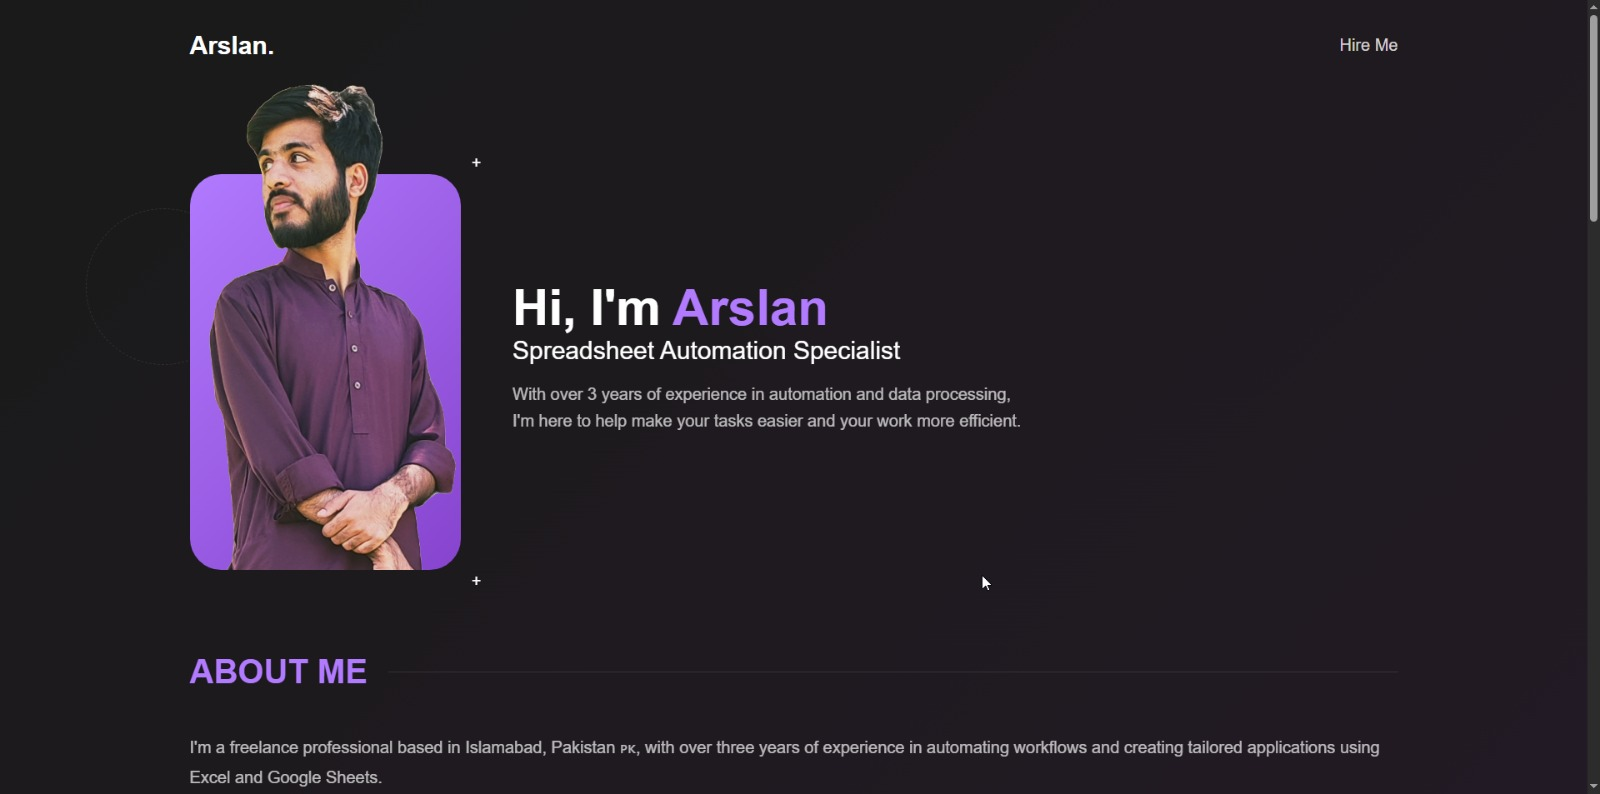
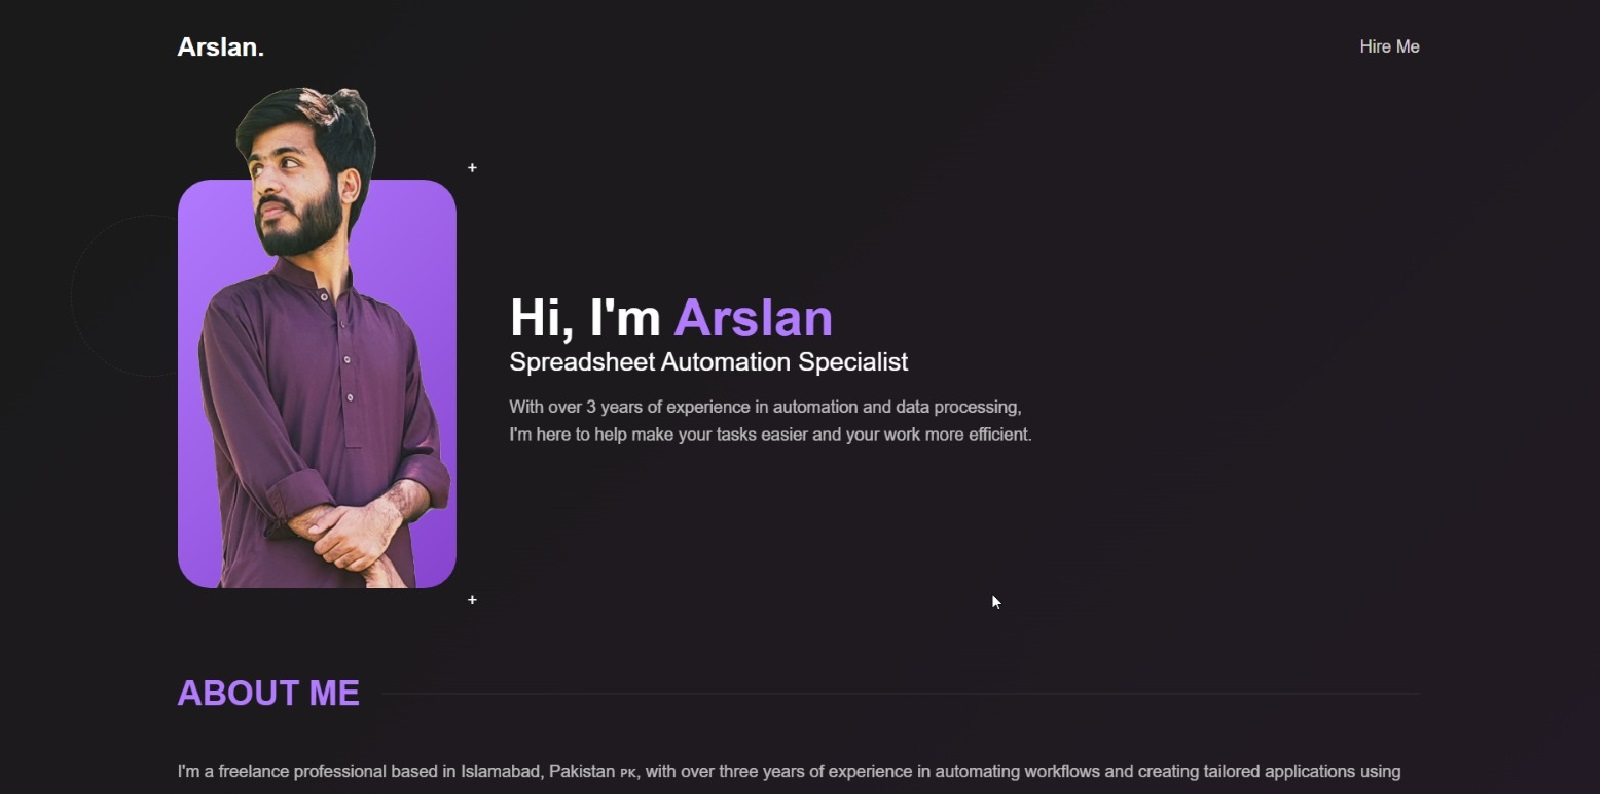
opengraph image fixed

diff --git a/index.html b/index.html
@@ -11,6 +11,12 @@
     <meta property="og:title" content="Arslan - Spreadsheet Automation Specialist">
     <meta property="og:description" content="With over 3 years of experience in automation and data processing, I'm here to help make your tasks easier and your work more efficient.">
     <meta property="og:image" content="https://alifaaeen.github.io/assets/opengraph.jpeg">
+    <meta property="og:image:width" content="1200">
+    <meta property="og:image:height" content="630">
+    <meta property="og:image:type" content="image/jpeg">
+    
+    <!-- WhatsApp specific meta tag -->
+    <meta property="og:site_name" content="Arslan Portfolio">
     
     <!-- Twitter -->
     <meta property="twitter:card" content="summary_large_image">
@@ -18,6 +24,9 @@
     <meta property="twitter:title" content="Arslan - Spreadsheet Automation Specialist">
     <meta property="twitter:description" content="With over 3 years of experience in automation and data processing, I'm here to help make your tasks easier and your work more efficient.">
     <meta property="twitter:image" content="https://alifaaeen.github.io/assets/opengraph.jpeg">
+    
+    <!-- Direct link to ensure image is accessible -->
+    <link rel="image_src" href="https://alifaaeen.github.io/assets/opengraph.jpeg">
     
     <link rel="stylesheet" type="text/css" href="/styles.css?v=1.0">
     <title>Arslan.</title>

diff --git a/test-image.html b/test-image.html
@@ -1,0 +1,13 @@
+<!DOCTYPE html>
+<html lang="en">
+<head>
+    <meta charset="UTF-8">
+    <meta name="viewport" content="width=device-width, initial-scale=1.0">
+    <title>Image Test</title>
+</head>
+<body>
+    <h1>Testing OpenGraph Image</h1>
+    <img src="assets/opengraph.jpeg" alt="OpenGraph Test Image" style="max-width: 100%;">
+    <p>If you can see the image above, it's accessible.</p>
+</body>
+</html> 
